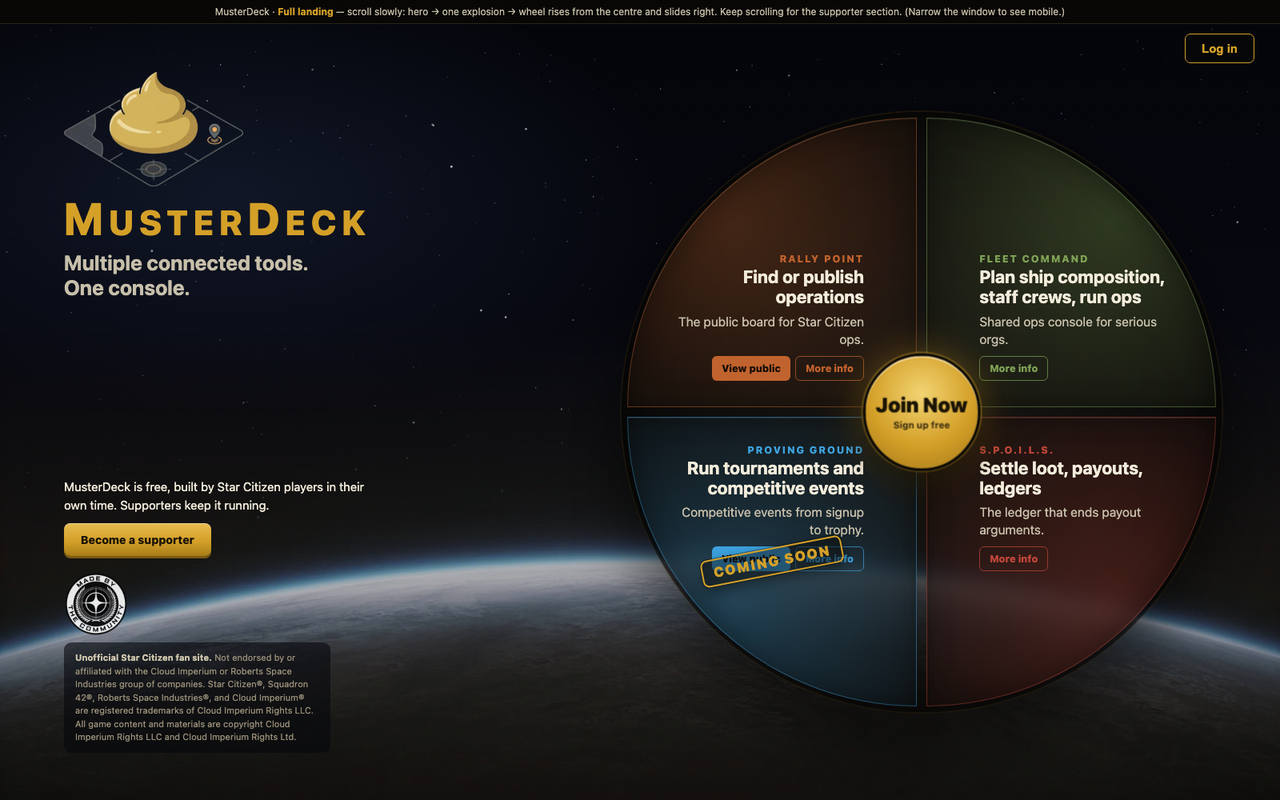
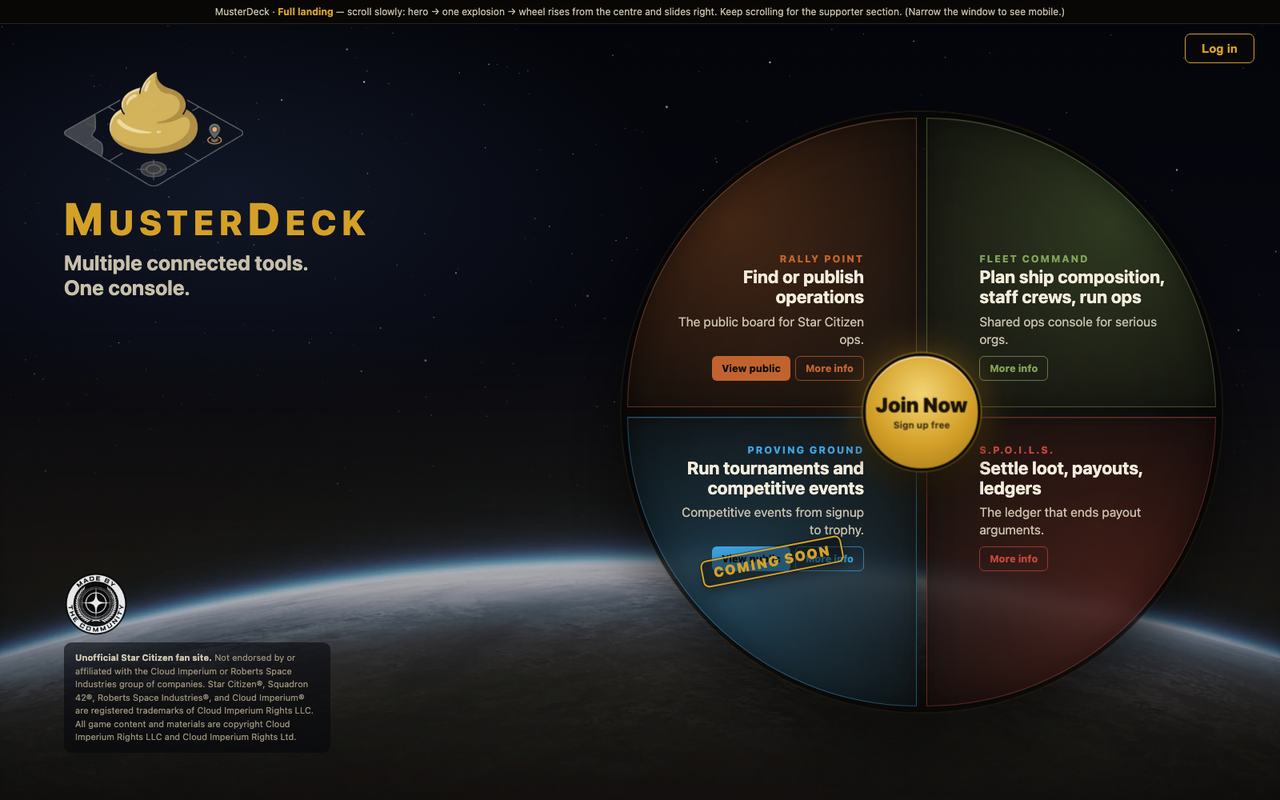
feat(landing): remove supporter section from public landing
Becoming a supporter requires login, and logged-in users don't see the public
landing — so the "Become a supporter" blurb + button and the Patreon tier modal
are removed from the landing. The community badge + fan-site disclaimer stay.
The supporter UI remains as the reusable become-a-supporter component for the
logged-in/account area. Refreshed settled screenshot; dropped supporter-tiers
shot; updated docs.

Changed region(s): [[0.0312, 0.5938, 0.2812, 0.7188]]

diff --git a/docs/landing/landing.html b/docs/landing/landing.html
@@ -315,11 +315,6 @@
           </div>
 
           <div class="lc-bottom" id="lcBottom">
-            <div class="support">
-              <div class="ptxt">MusterDeck is free, built by Star Citizen players in their own time. Supporters keep it running.</div>
-              <button class="b-patreon">Become a supporter</button>
-            </div>
-
             <div class="community">
               <img class="combadge-img" src="assets/made-by-community.webp" alt="Made by the Community">
               <div class="disclaimer"><b>Unofficial Star Citizen fan site.</b> Not endorsed by or affiliated with the Cloud Imperium or Roberts Space Industries group of companies. Star Citizen&reg;, Squadron 42&reg;, Roberts Space Industries&reg;, and Cloud Imperium&reg; are registered trademarks of Cloud Imperium Rights LLC. All game content and materials are copyright Cloud Imperium Rights LLC and Cloud Imperium Rights Ltd.</div>
@@ -354,20 +349,6 @@
     <div class="tmhead"><div><div class="k" id="infoKick"></div><h3 id="infoTitle"></h3></div><button class="tclose" aria-label="Close">&times;</button></div>
     <div id="infoBody"></div>
     <div class="mcta"><button class="b b-guest" id="infoGuest" style="display:none"></button><button class="b b-primary">Sign up for MusterDeck</button></div>
-  </div>
-</div>
-
-<!-- ===== SUPPORTER MODAL ===== -->
-<div class="overlay" id="tierOverlay">
-  <div class="tmodal" role="dialog" aria-modal="true">
-    <div class="tmhead"><div><div class="k">Support MusterDeck</div><h3>Become a supporter</h3></div><button class="tclose" aria-label="Close">&times;</button></div>
-    <p class="tintro">MusterDeck is free to use and always will be. Supporters keep the servers running and unlock extra tools to run a sharper operation. Pick a level that fits. Change or cancel any time on Patreon.</p>
-    <div class="tiers">
-      <div class="tier"><div class="tn">Captain</div><div class="price">$1<span>/month</span></div><div class="tdesc">Back the project and wear it.</div><ul><li>Supporter badge on your callsign</li><li>Your name in the in-app credits</li><li>Supporter channel on the MusterDeck Discord</li></ul><button class="pick">Choose Captain</button></div>
-      <div class="tier feat"><div class="ribbon">Most popular</div><div class="tn">Admiral</div><div class="price">$5<span>/month</span></div><div class="tdesc">Run a sharper operation.</div><ul><li>Everything in Captain</li><li>Early access to new tools and features</li><li>Custom banners on your Rally Point ops</li><li>Create and manage your own orgs <span class="soon">Coming soon</span></li><li>Manage the org bank, even across multiple accounts <span class="soon">Coming soon</span></li><li>Save and reuse Fleet Command staffing templates <span class="soon">Coming soon</span></li></ul><button class="pick">Choose Admiral</button></div>
-      <div class="tier soon-tier"><div class="ribbon soon-ribbon">Coming soon</div><div class="tn">Praetorian</div><div class="price">$20<span>/month</span></div><div class="tdesc">Host the competition.</div><ul><li>Everything in Admiral</li><li>Set up and post tournaments in Proving Ground <span class="soon">Coming soon</span></li><li>Build brackets, manage signups, and run events <span class="soon">Coming soon</span></li><li>Publish standings and leaderboards to the public board <span class="soon">Coming soon</span></li></ul><button class="pick" disabled>Coming soon</button></div>
-    </div>
-    <div class="tnote">Tiers, prices, and perks confirmed. Exact wording still open to polish. Payments handled by Patreon.</div>
   </div>
 </div>
 
@@ -429,8 +410,6 @@
     ov.querySelectorAll('.tclose').forEach(b=>b.addEventListener('click',()=>closeModal(ov)));
   });
   document.addEventListener('keydown',e=>{ if(e.key==='Escape') document.querySelectorAll('.overlay.open').forEach(closeModal); });
-  const tov=document.getElementById('tierOverlay');
-  document.querySelectorAll('.b-patreon').forEach(b=>b.addEventListener('click',e=>openModal(tov,e)));
 
   const infoOv=document.getElementById('infoOverlay'), infoMod=infoOv.querySelector('.tmodal');
   const COLORMAP={'#c1632e':'rally','#7fa356':'fleet','#3da3e0':'proving','#c2473a':'spoils'};

diff --git a/docs/landing/README.md b/docs/landing/README.md
@@ -22,12 +22,15 @@ relative, no server needed).
 4. **Tool wheel rises from the centre of the blast**, then slides to the right;
    the left column slides in from the left.
 5. **Settled second half**: left column splits — brand (logo + name + tagline) to
-   the top, supporter blurb + button and the community badge + disclaimer to the
-   bottom (in a dark readable box). The 4-quadrant tool wheel sits on the right
-   with a centre "Join Now" hub.
+   the top, the community badge + unofficial-fan-site disclaimer to the bottom (in a
+   dark readable box). The 4-quadrant tool wheel sits on the right with a centre
+   "Join Now" hub. (No supporter CTA here — becoming a supporter requires being
+   logged in, and logged-in users don't see the public landing; that UI lives in
+   the reusable [`become-a-supporter`](../components/become-a-supporter.html)
+   component for the in-app/account area.)
 6. **Mobile (<981px)**: no cinematic — everything stacks (logo, name, tagline,
-   four tool island cards, supporter, badge, disclaimer) and scrolls normally over
-   the same persistent planet.
+   four tool island cards, badge, disclaimer) and scrolls normally over the same
+   persistent planet.
 
 ## Screenshots
 
@@ -39,17 +42,14 @@ relative, no server needed).
 | Wheel rising from centre | ![wheel rising](screenshots/04-wheel-rising.png) |
 | Settled (split left column + wheel) | ![settled](screenshots/05-settled.png) |
 | Mobile | ![mobile](screenshots/06-mobile.png) |
-| Supporter tiers (Coming soon markers) | ![supporter tiers](screenshots/07-supporter-tiers.png) |
 
 ### "Coming soon" markers (2026-06-16)
 
-Features not live yet are flagged in mustard:
-- **Proving Ground** carries a diagonal **COMING SOON** stamp (desktop wheel quad + mobile card).
-- **Admiral** tier: "Create and manage your own orgs", "Manage the org bank…", and
-  "Save and reuse Fleet Command staffing templates" each show a `Coming soon` pill.
-- **Praetorian** tier is entirely coming soon (its unlocks are all Proving Ground) —
-  a "Coming soon" ribbon + a disabled button. Update these (`.coming-stamp`,
-  `.soon`, `.soon-tier`) as features ship.
+**Proving Ground** carries a diagonal **COMING SOON** stamp on the landing (desktop
+wheel quad + mobile card) via `.coming-stamp`. The supporter tier markers (`.soon`
+pills on Admiral, the `.soon-tier` Praetorian treatment) live in the
+[`become-a-supporter`](../components/become-a-supporter.html) component, since the
+supporter UI is not on the public landing. Update these as features ship.
 
 ## The explosion (how it's built)
 
@@ -94,5 +94,5 @@ are documented in [`SOURCES.md`](SOURCES.md).
 ## Reusable components extracted from this page
 
 - [`../components/space-planet-background.html`](../components/space-planet-background.html) — the persistent backdrop (for the hub)
-- [`../components/become-a-supporter.html`](../components/become-a-supporter.html) — supporter blurb + button + Patreon modal
-- [`../components/community-badge.html`](../components/community-badge.html) — community badge + fan-site disclaimer
+- [`../components/community-badge.html`](../components/community-badge.html) — community badge + fan-site disclaimer (used on the landing footer)
+- [`../components/become-a-supporter.html`](../components/become-a-supporter.html) — supporter blurb + button + Patreon tier modal. **Not on the public landing** (becoming a supporter requires login); for the logged-in / account area.

diff --git a/docs/components/README.md b/docs/components/README.md
@@ -7,7 +7,7 @@ copy/paste instructions at the top.
 
 | Component | File | What's inside |
 |---|---|---|
-| Become a supporter | [become-a-supporter.html](become-a-supporter.html) | The "free / supporters keep it running" blurb, the **Become a supporter** button, and the Patreon tier modal (Captain $1 / Admiral $5 / Praetorian $20) with the holographic cast-open reveal. |
+| Become a supporter | [become-a-supporter.html](become-a-supporter.html) | The "free / supporters keep it running" blurb, the **Become a supporter** button, and the Patreon tier modal (Captain $1 / Admiral $5 / Praetorian $20) with the holographic cast-open reveal. **For the logged-in / account area — not the public landing** (becoming a supporter requires login). |
 | Made by the Community | [community-badge.html](community-badge.html) | The "Made by the Community" badge and the unofficial Star Citizen fan-site trademark/affiliation disclaimer. Also used on the hub. |
 | Space + planet background | [space-planet-background.html](space-planet-background.html) | The persistent deep-space backdrop: JS starfield + planet limb + vignette, fixed behind content. Slated for the Operations Hub. Asset: `public/brand/space-planet.webp`. |
 